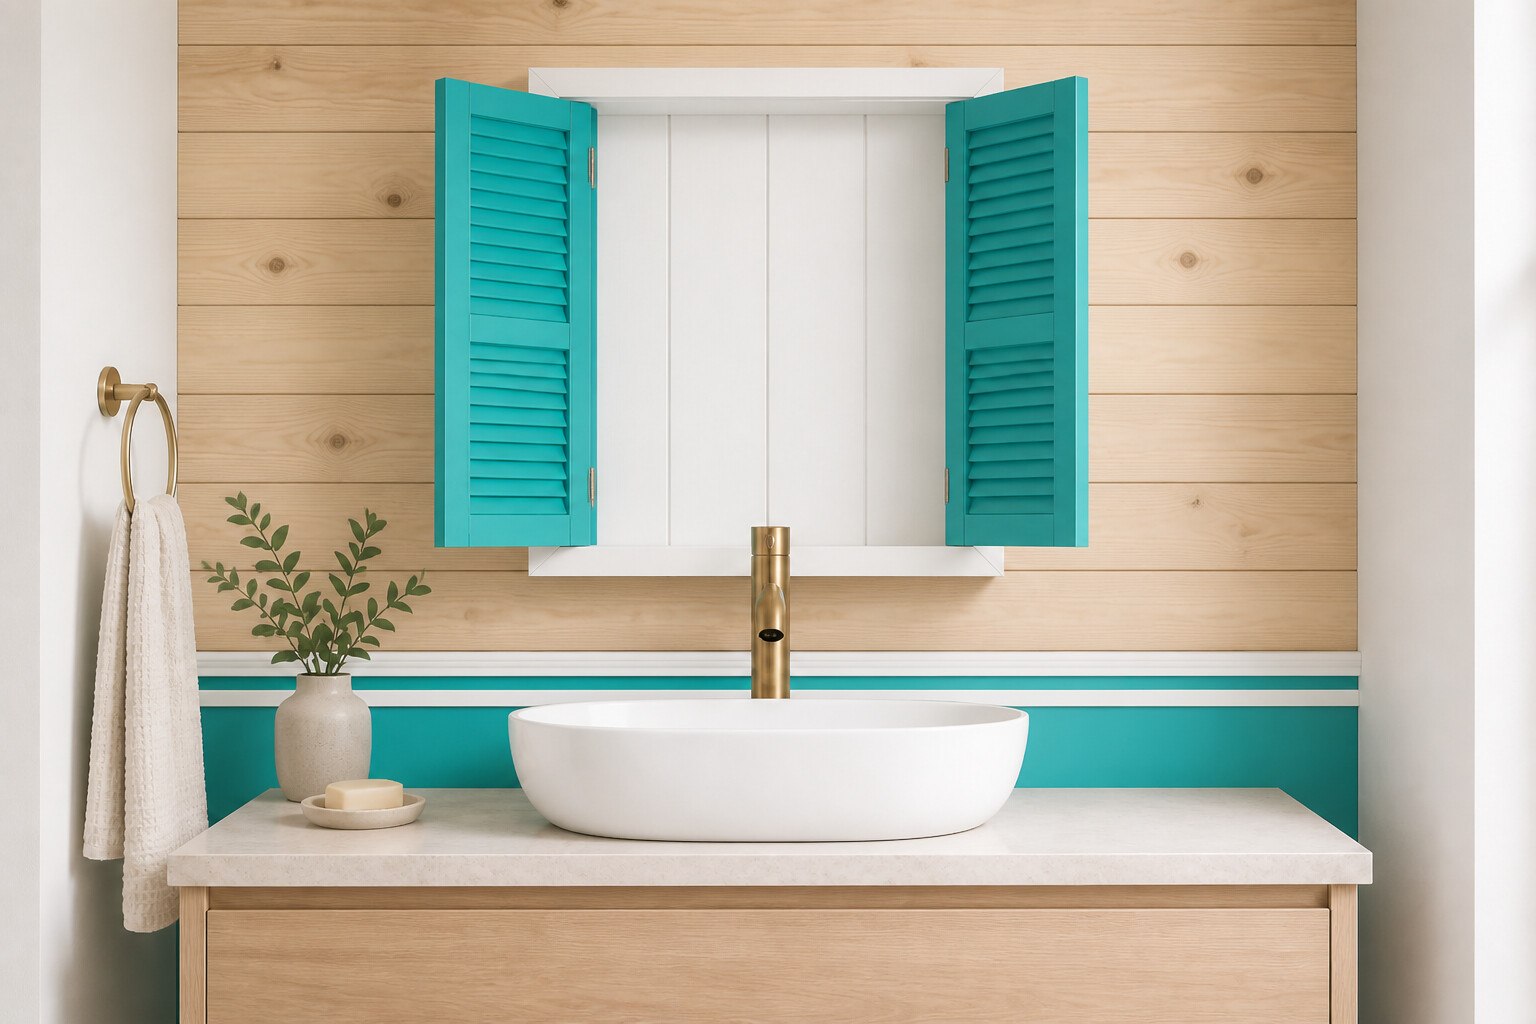
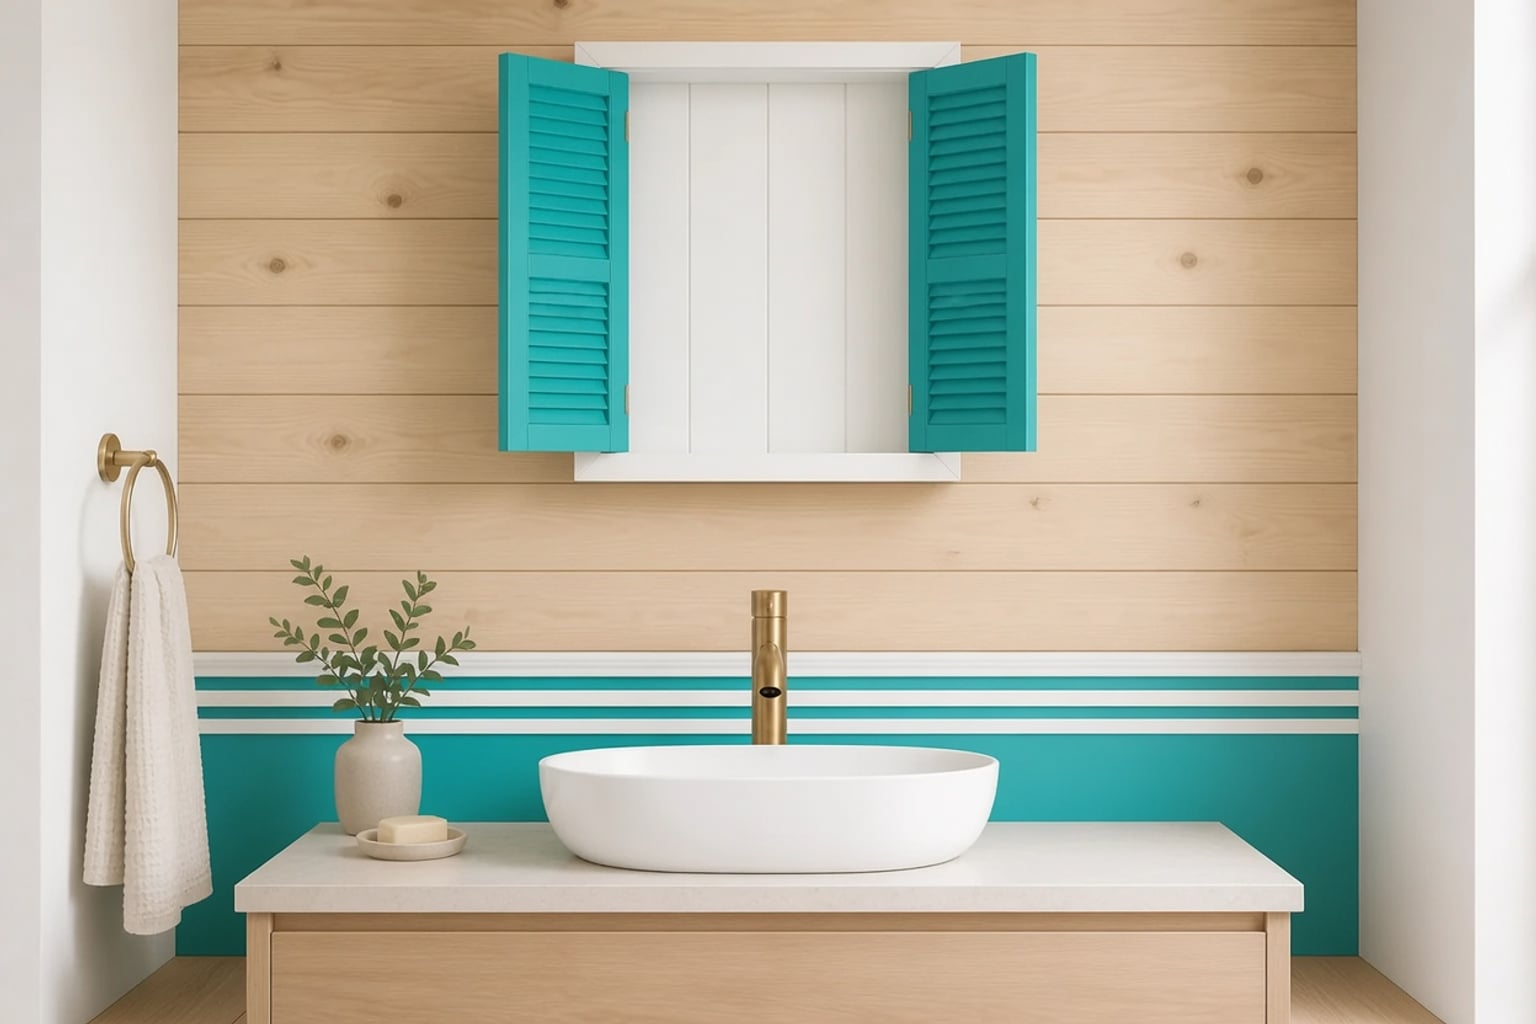
Replace bathroom lifestyle shots with raised-cabinet Grok set.
New vanity scenes keep white frames and colorway shutters while giving the medicine cabinet more clearance above the faucet.

diff --git a/src/lib/images.ts b/src/lib/images.ts
@@ -16,7 +16,7 @@ export const STYLES_SHEET = "/images/colorways/styles-sheet.webp";
 /**
  * Same-scene lifestyle heroes per product — composition stays fixed;
  * only accent color changes across the six colorways.
- * Living + bedroom use the new data/raw swap set where available.
+ * Bathroom set regenerated from Grok (cabinet raised / camera back).
  */
 export const categoryScenes: Record<
   ProductType,
